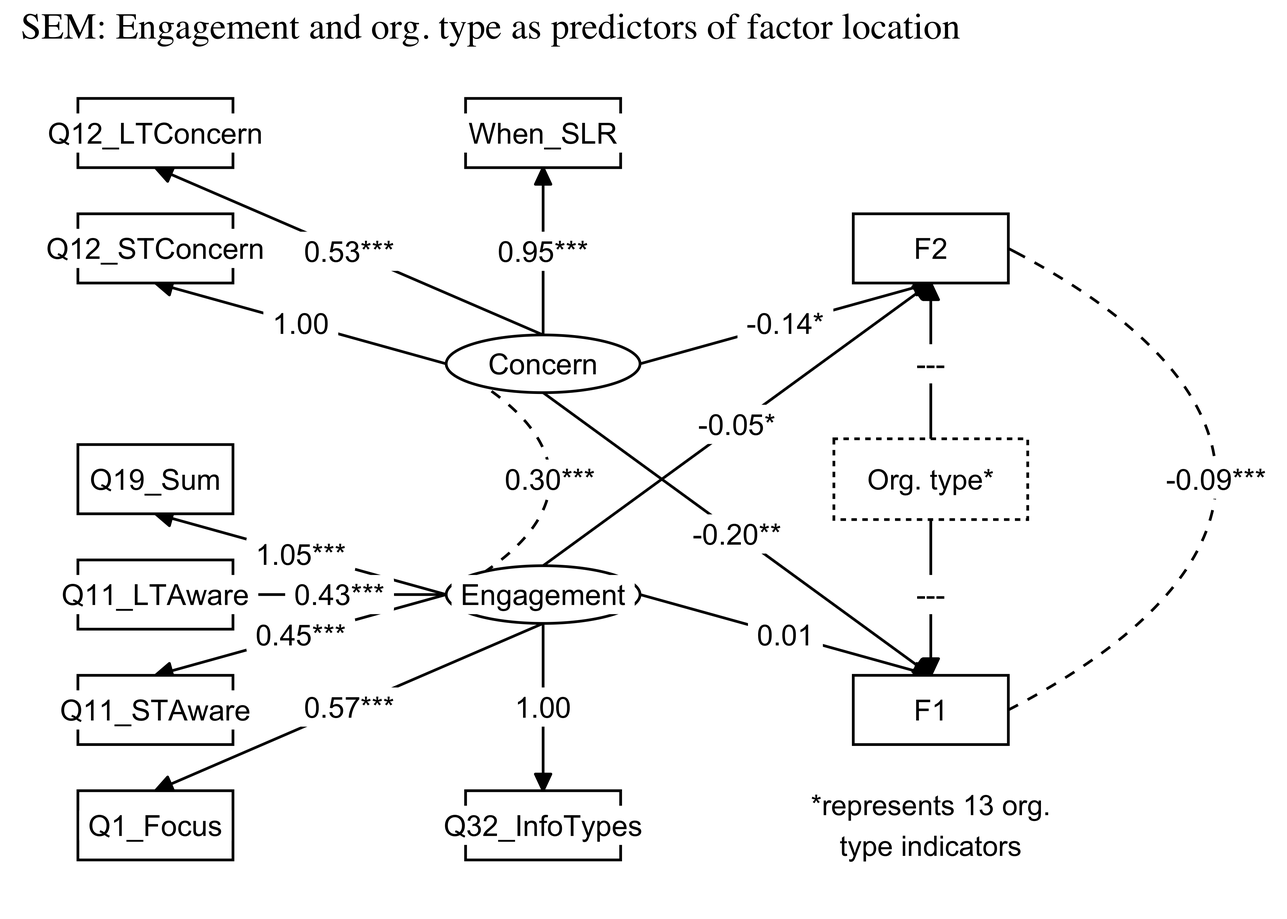
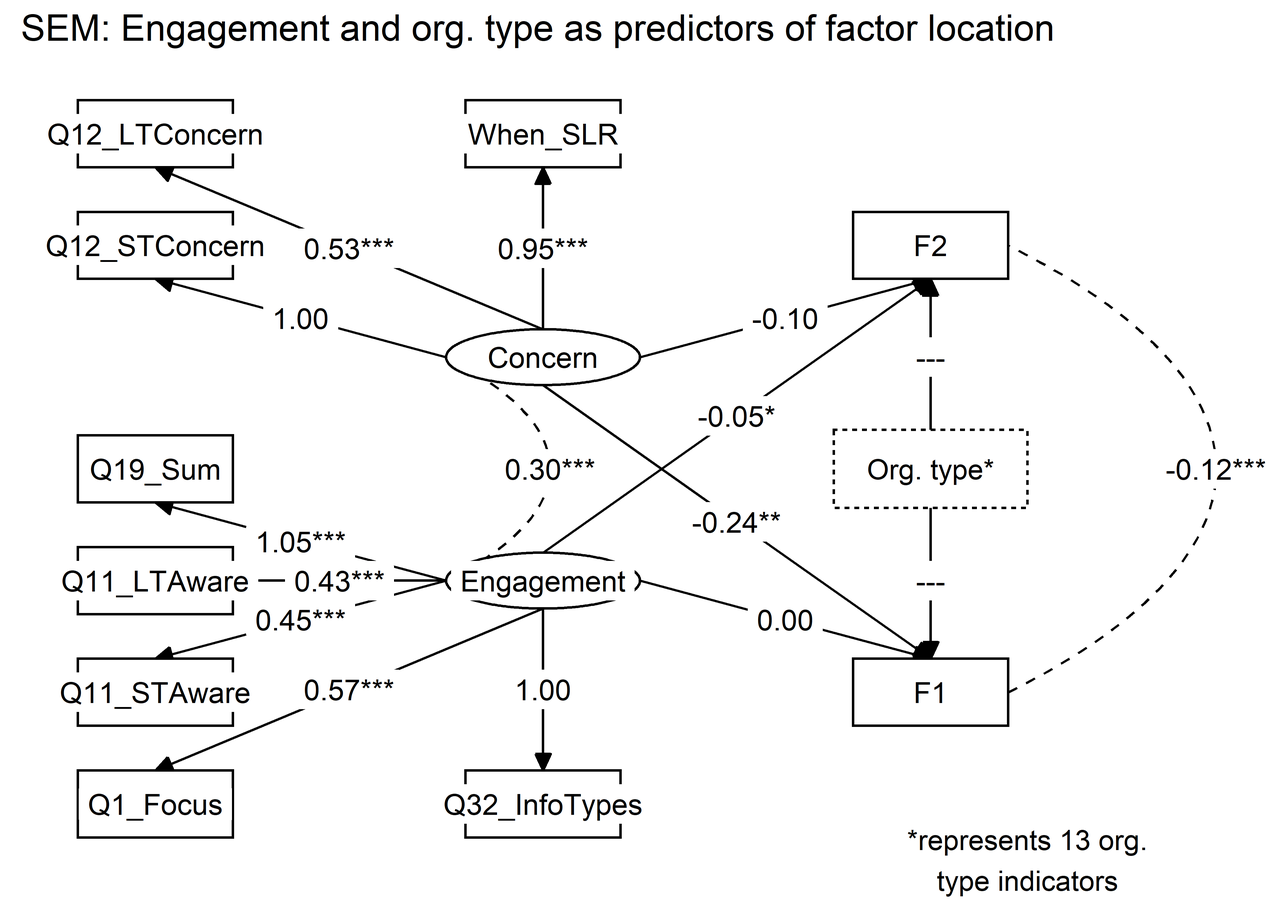
Edit Figures 1, 4, and 5 for paper (all new figure code done at end of script)

diff --git a/output/tables/correlation_tests.html b/output/tables/correlation_tests.html
@@ -1,40 +1,40 @@
 
 <table style="text-align:center"><tr><td colspan="4" style="border-bottom: 1px solid black"></td></tr><tr><td style="text-align:left"></td><td>item</td><td>F1</td><td>F2</td></tr>
-<tr><td colspan="4" style="border-bottom: 1px solid black"></td></tr><tr><td style="text-align:left">1</td><td>Q1_Focus</td><td>-0.048</td><td>-0.027</td></tr>
-<tr><td style="text-align:left">2</td><td>Q16_Risk_Agree</td><td>-0.029</td><td>-0.039</td></tr>
-<tr><td style="text-align:left">3</td><td>Q17_Action_Agree</td><td>0.038</td><td>-0.018</td></tr>
-<tr><td style="text-align:left">4</td><td>Q4_Fed</td><td>0.037</td><td>-0.1*</td></tr>
-<tr><td style="text-align:left">5</td><td>Q4_State</td><td>-0.024</td><td>0.031</td></tr>
-<tr><td style="text-align:left">6</td><td>Q4_RegGov</td><td>0.03</td><td>0.059</td></tr>
-<tr><td style="text-align:left">7</td><td>Q4_LocalGov</td><td>0.076*</td><td>0.067*</td></tr>
-<tr><td style="text-align:left">8</td><td>Q4_WaterSD</td><td>0.102*</td><td>-0.014</td></tr>
+<tr><td colspan="4" style="border-bottom: 1px solid black"></td></tr><tr><td style="text-align:left">1</td><td>Q1_Focus</td><td>-0.047</td><td>-0.034</td></tr>
+<tr><td style="text-align:left">2</td><td>Q16_Risk_Agree</td><td>-0.028</td><td>-0.029</td></tr>
+<tr><td style="text-align:left">3</td><td>Q17_Action_Agree</td><td>0.021</td><td>-0.008</td></tr>
+<tr><td style="text-align:left">4</td><td>Q4_Fed</td><td>0000</td><td>-0.095*</td></tr>
+<tr><td style="text-align:left">5</td><td>Q4_State</td><td>-0.026</td><td>0.039</td></tr>
+<tr><td style="text-align:left">6</td><td>Q4_RegGov</td><td>0.047</td><td>0.054</td></tr>
+<tr><td style="text-align:left">7</td><td>Q4_LocalGov</td><td>0.085*</td><td>0.051</td></tr>
+<tr><td style="text-align:left">8</td><td>Q4_WaterSD</td><td>0.056</td><td>-0.01</td></tr>
 <tr><td style="text-align:left">9</td><td>Q4_EnviroSD</td><td>0.029</td><td>-0.063*</td></tr>
-<tr><td style="text-align:left">10</td><td>Q4_Enviro</td><td>-0.004</td><td>-0.028</td></tr>
-<tr><td style="text-align:left">11</td><td>Q4_Trade</td><td>-0.013</td><td>0.007</td></tr>
-<tr><td style="text-align:left">12</td><td>Q4_Ed</td><td>-0.058</td><td>0.018</td></tr>
-<tr><td style="text-align:left">13</td><td>Q4_Multistake</td><td>-0.027</td><td>0.008</td></tr>
-<tr><td style="text-align:left">14</td><td>Q4_Multijuris</td><td>0.011</td><td>0.001</td></tr>
-<tr><td style="text-align:left">15</td><td>Q4_Political</td><td>-0.028</td><td>0.04</td></tr>
-<tr><td style="text-align:left">16</td><td>Q4_CBO</td><td>-0.074*</td><td>-0.001</td></tr>
-<tr><td style="text-align:left">17</td><td>Q4_NGO</td><td>-0.127*</td><td>-0.086*</td></tr>
-<tr><td style="text-align:left">18</td><td>Q8_JobTasks</td><td>-0.078*</td><td>0.013</td></tr>
-<tr><td style="text-align:left">19</td><td>Q32_InfoTypes</td><td>-0.026</td><td>-0.072*</td></tr>
-<tr><td style="text-align:left">20</td><td>Q11_STAware</td><td>-0.001</td><td>-0.061*</td></tr>
-<tr><td style="text-align:left">21</td><td>Q11_LTAware</td><td>-0.043</td><td>-0.039</td></tr>
-<tr><td style="text-align:left">22</td><td>Q12_STConcern</td><td>-0.106*</td><td>-0.071*</td></tr>
-<tr><td style="text-align:left">23</td><td>Q12_LTConcern</td><td>-0.11*</td><td>-0.014</td></tr>
-<tr><td style="text-align:left">24</td><td>Q20_HumRes</td><td>-0.046</td><td>0.031</td></tr>
-<tr><td style="text-align:left">25</td><td>Q20_FinRes</td><td>-0.028</td><td>0.002</td></tr>
-<tr><td style="text-align:left">26</td><td>Q20_ExpCollab</td><td>0.007</td><td>0.004</td></tr>
-<tr><td style="text-align:left">27</td><td>Q20_StakeOpp</td><td>0.056</td><td>-0.077*</td></tr>
-<tr><td style="text-align:left">28</td><td>Q20_PolLead</td><td>-0.02</td><td>-0.04</td></tr>
-<tr><td style="text-align:left">29</td><td>Q20_SLRUncertain</td><td>0.067*</td><td>0.051</td></tr>
-<tr><td style="text-align:left">30</td><td>Q20_SciInfo</td><td>0.055</td><td>0.007</td></tr>
-<tr><td style="text-align:left">31</td><td>Q20_OrgLead</td><td>-0.05</td><td>-0.013</td></tr>
-<tr><td style="text-align:left">32</td><td>Q20_OverallPlan</td><td>0.042</td><td>0.067*</td></tr>
-<tr><td style="text-align:left">33</td><td>Q20_Permits</td><td>0.119*</td><td>-0.089*</td></tr>
-<tr><td style="text-align:left">34</td><td>Q20_PubSupport</td><td>0.018</td><td>-0.011</td></tr>
-<tr><td style="text-align:left">35</td><td>Q20_CBORelation</td><td>-0.124*</td><td>0.037</td></tr>
-<tr><td style="text-align:left">36</td><td>Q20_Sum</td><td>0.029</td><td>0.01</td></tr>
-<tr><td style="text-align:left">37</td><td>Q19_Sum</td><td>-0.078*</td><td>-0.056*</td></tr>
+<tr><td style="text-align:left">10</td><td>Q4_Enviro</td><td>-0.017</td><td>-0.03</td></tr>
+<tr><td style="text-align:left">11</td><td>Q4_Trade</td><td>0.003</td><td>0.002</td></tr>
+<tr><td style="text-align:left">12</td><td>Q4_Ed</td><td>-0.03</td><td>0.009</td></tr>
+<tr><td style="text-align:left">13</td><td>Q4_Multistake</td><td>-0.009</td><td>0.005</td></tr>
+<tr><td style="text-align:left">14</td><td>Q4_Multijuris</td><td>0.027</td><td>-0.004</td></tr>
+<tr><td style="text-align:left">15</td><td>Q4_Political</td><td>-0.012</td><td>0.043</td></tr>
+<tr><td style="text-align:left">16</td><td>Q4_CBO</td><td>-0.079*</td><td>0.003</td></tr>
+<tr><td style="text-align:left">17</td><td>Q4_NGO</td><td>-0.128*</td><td>-0.075*</td></tr>
+<tr><td style="text-align:left">18</td><td>Q8_JobTasks</td><td>-0.069*</td><td>0.013</td></tr>
+<tr><td style="text-align:left">19</td><td>Q32_InfoTypes</td><td>-0.033</td><td>-0.069*</td></tr>
+<tr><td style="text-align:left">20</td><td>Q11_STAware</td><td>-0.006</td><td>-0.062*</td></tr>
+<tr><td style="text-align:left">21</td><td>Q11_LTAware</td><td>-0.043</td><td>-0.044</td></tr>
+<tr><td style="text-align:left">22</td><td>Q12_STConcern</td><td>-0.108*</td><td>-0.059*</td></tr>
+<tr><td style="text-align:left">23</td><td>Q12_LTConcern</td><td>-0.101*</td><td>-0.008</td></tr>
+<tr><td style="text-align:left">24</td><td>Q20_HumRes</td><td>-0.041</td><td>0.03</td></tr>
+<tr><td style="text-align:left">25</td><td>Q20_FinRes</td><td>-0.01</td><td>-0.007</td></tr>
+<tr><td style="text-align:left">26</td><td>Q20_ExpCollab</td><td>0.003</td><td>0.011</td></tr>
+<tr><td style="text-align:left">27</td><td>Q20_StakeOpp</td><td>0.018</td><td>-0.067*</td></tr>
+<tr><td style="text-align:left">28</td><td>Q20_PolLead</td><td>-0.021</td><td>-0.03</td></tr>
+<tr><td style="text-align:left">29</td><td>Q20_SLRUncertain</td><td>0.075*</td><td>0.042</td></tr>
+<tr><td style="text-align:left">30</td><td>Q20_SciInfo</td><td>0.061*</td><td>-0.017</td></tr>
+<tr><td style="text-align:left">31</td><td>Q20_OrgLead</td><td>-0.037</td><td>-0.021</td></tr>
+<tr><td style="text-align:left">32</td><td>Q20_OverallPlan</td><td>0.056</td><td>0.059</td></tr>
+<tr><td style="text-align:left">33</td><td>Q20_Permits</td><td>0.08*</td><td>-0.095*</td></tr>
+<tr><td style="text-align:left">34</td><td>Q20_PubSupport</td><td>-0.006</td><td>0.013</td></tr>
+<tr><td style="text-align:left">35</td><td>Q20_CBORelation</td><td>-0.121*</td><td>0.039</td></tr>
+<tr><td style="text-align:left">36</td><td>Q20_Sum</td><td>0.027</td><td>0.008</td></tr>
+<tr><td style="text-align:left">37</td><td>Q19_Sum</td><td>-0.085*</td><td>-0.048</td></tr>
 <tr><td colspan="4" style="border-bottom: 1px solid black"></td></tr></table>

diff --git a/output/tables/sem_model_V2_10-7.html b/output/tables/sem_model_V2_10-7.html
@@ -3,40 +3,40 @@
 <tr><td></td><td colspan = '1'; align = 'center'>Estimate</td><td colspan = '1'; align = 'center'>Std. Err.</td><td colspan = '1'; align = 'center'>z</td><td colspan = '1'; align = 'center'>p</td></tr>
 <tr><td></td><td colspan = '4'; align = 'center'><span style="text-decoration: underline;">Factor Loadings</span></td></tr> <tr><td colspan = '1'; align = 'left'><span style="text-decoration: underline;">Engagement</span></td></tr>
 <tr><td>Q32.InfoTypes</td><td>1.00<sup>+</sup></td><td></td><td></td><td></td></tr>
-<tr><td>Q1.Focus</td><td>0.57</td><td>0.06</td><td>9.16</td><td>.000</td></tr>
-<tr><td>When.SLR</td><td>0.17</td><td>0.04</td><td>4.66</td><td>.000</td></tr>
-<tr><td>Q11.STAware</td><td>0.52</td><td>0.05</td><td>11.02</td><td>.000</td></tr>
-<tr><td>Q11.LTAware</td><td>0.49</td><td>0.04</td><td>11.00</td><td>.000</td></tr>
-<tr><td>Q12.LTConcern</td><td>0.14</td><td>0.02</td><td>6.56</td><td>.000</td></tr>
-<tr><td>Q12.STConcern</td><td>0.13</td><td>0.03</td><td>4.53</td><td>.000</td></tr>
+<tr><td>Q1.Focus</td><td>0.57</td><td>0.06</td><td>9.15</td><td>.000</td></tr>
+<tr><td>When.SLR</td><td>0.17</td><td>0.04</td><td>4.64</td><td>.000</td></tr>
+<tr><td>Q11.STAware</td><td>0.52</td><td>0.05</td><td>11.00</td><td>.000</td></tr>
+<tr><td>Q11.LTAware</td><td>0.49</td><td>0.04</td><td>10.99</td><td>.000</td></tr>
+<tr><td>Q12.LTConcern</td><td>0.14</td><td>0.02</td><td>6.55</td><td>.000</td></tr>
+<tr><td>Q12.STConcern</td><td>0.13</td><td>0.03</td><td>4.51</td><td>.000</td></tr>
 <tr><td></td><td colspan = '4'; align = 'center'><span style="text-decoration: underline;">Regression Slopes</span></td></tr> <tr><td colspan = '1'; align = 'left'><span style="text-decoration: underline;">F1</span></td></tr>
-<tr><td>Engagement</td><td>-0.02</td><td>0.02</td><td>-1.11</td><td>.265</td></tr>
-<tr><td>nonprofit</td><td>-0.50</td><td>0.09</td><td>-5.70</td><td>.000</td></tr>
-<tr><td>govagency</td><td>-0.15</td><td>0.09</td><td>-1.75</td><td>.081</td></tr>
-<tr><td>enviro</td><td>-0.19</td><td>0.13</td><td>-1.49</td><td>.137</td></tr>
-<tr><td>othergroup</td><td>-0.16</td><td>0.07</td><td>-2.32</td><td>.020</td></tr>
+<tr><td>Engagement</td><td>-0.03</td><td>0.03</td><td>-1.01</td><td>.314</td></tr>
+<tr><td>nonprofit</td><td>-0.55</td><td>0.12</td><td>-4.63</td><td>.000</td></tr>
+<tr><td>govagency</td><td>-0.16</td><td>0.11</td><td>-1.37</td><td>.172</td></tr>
+<tr><td>enviro</td><td>-0.22</td><td>0.17</td><td>-1.30</td><td>.194</td></tr>
+<tr><td>othergroup</td><td>-0.13</td><td>0.09</td><td>-1.44</td><td>.151</td></tr>
  <tr><td colspan = '1'; align = 'left'><span style="text-decoration: underline;">F2</span></td></tr>
-<tr><td>Engagement</td><td>-0.07</td><td>0.02</td><td>-3.23</td><td>.001</td></tr>
-<tr><td>nonprofit</td><td>-0.26</td><td>0.09</td><td>-3.03</td><td>.002</td></tr>
-<tr><td>govagency</td><td>-0.08</td><td>0.08</td><td>-1.02</td><td>.310</td></tr>
-<tr><td>enviro</td><td>-0.18</td><td>0.12</td><td>-1.46</td><td>.145</td></tr>
-<tr><td>othergroup</td><td>-0.03</td><td>0.07</td><td>-0.41</td><td>.680</td></tr>
+<tr><td>Engagement</td><td>-0.07</td><td>0.02</td><td>-3.21</td><td>.001</td></tr>
+<tr><td>nonprofit</td><td>-0.23</td><td>0.09</td><td>-2.60</td><td>.009</td></tr>
+<tr><td>govagency</td><td>-0.05</td><td>0.09</td><td>-0.64</td><td>.525</td></tr>
+<tr><td>enviro</td><td>-0.16</td><td>0.13</td><td>-1.24</td><td>.217</td></tr>
+<tr><td>othergroup</td><td>-0.01</td><td>0.07</td><td>-0.09</td><td>.932</td></tr>
 <tr><td></td><td colspan = '4'; align = 'center'><span style="text-decoration: underline;">Residual Variances</span></td></tr>
-<tr><td>Q32.InfoTypes</td><td>7.06</td><td>0.39</td><td>17.89</td><td>.000</td></tr>
-<tr><td>Q1.Focus</td><td>1.56</td><td>0.09</td><td>17.49</td><td>.000</td></tr>
-<tr><td>When.SLR</td><td>1.17</td><td>0.06</td><td>18.54</td><td>.000</td></tr>
-<tr><td>Q11.STAware</td><td>0.14</td><td>0.02</td><td>7.03</td><td>.000</td></tr>
-<tr><td>Q11.LTAware</td><td>0.22</td><td>0.02</td><td>10.62</td><td>.000</td></tr>
-<tr><td>Q12.LTConcern</td><td>0.31</td><td>0.02</td><td>18.34</td><td>.000</td></tr>
+<tr><td>Q32.InfoTypes</td><td>7.06</td><td>0.39</td><td>17.90</td><td>.000</td></tr>
+<tr><td>Q1.Focus</td><td>1.56</td><td>0.09</td><td>17.50</td><td>.000</td></tr>
+<tr><td>When.SLR</td><td>1.18</td><td>0.06</td><td>18.54</td><td>.000</td></tr>
+<tr><td>Q11.STAware</td><td>0.14</td><td>0.02</td><td>6.98</td><td>.000</td></tr>
+<tr><td>Q11.LTAware</td><td>0.22</td><td>0.02</td><td>10.61</td><td>.000</td></tr>
+<tr><td>Q12.LTConcern</td><td>0.31</td><td>0.02</td><td>18.35</td><td>.000</td></tr>
 <tr><td>Q12.STConcern</td><td>0.67</td><td>0.04</td><td>18.55</td><td>.000</td></tr>
-<tr><td>F1</td><td>0.49</td><td>0.03</td><td>18.67</td><td>.000</td></tr>
-<tr><td>F2</td><td>0.46</td><td>0.02</td><td>18.62</td><td>.000</td></tr>
+<tr><td>F1</td><td>0.89</td><td>0.05</td><td>18.68</td><td>.000</td></tr>
+<tr><td>F2</td><td>0.50</td><td>0.03</td><td>18.62</td><td>.000</td></tr>
 <tr><td>nonprofit</td><td>0.12<sup>+</sup></td><td></td><td></td><td></td></tr>
 <tr><td>govagency</td><td>0.14<sup>+</sup></td><td></td><td></td><td></td></tr>
 <tr><td>enviro</td><td>0.05<sup>+</sup></td><td></td><td></td><td></td></tr>
 <tr><td>othergroup</td><td>0.24<sup>+</sup></td><td></td><td></td><td></td></tr>
 <tr><td></td><td colspan = '4'; align = 'center'><span style="text-decoration: underline;">Residual Covariances</span></td></tr>
-<tr><td>F1 w/F2</td><td>-0.08</td><td>0.02</td><td>-4.58</td><td>.000</td></tr>
+<tr><td>F1 w/F2</td><td>-0.11</td><td>0.03</td><td>-4.29</td><td>.000</td></tr>
 <tr><td>nonprofit w/govagency</td><td>-0.02<sup>+</sup></td><td></td><td></td><td></td></tr>
 <tr><td>nonprofit w/enviro</td><td>-0.01<sup>+</sup></td><td></td><td></td><td></td></tr>
 <tr><td>nonprofit w/othergroup</td><td>-0.06<sup>+</sup></td><td></td><td></td><td></td></tr>
@@ -44,11 +44,11 @@
 <tr><td>govagency w/othergroup</td><td>-0.07<sup>+</sup></td><td></td><td></td><td></td></tr>
 <tr><td>enviro w/othergroup</td><td>-0.02<sup>+</sup></td><td></td><td></td><td></td></tr>
 <tr><td></td><td colspan = '4'; align = 'center'><span style="text-decoration: underline;">Latent Variances</span></td></tr>
-<tr><td>Engagement</td><td>1.69</td><td>0.30</td><td>5.65</td><td>.000</td></tr>
+<tr><td>Engagement</td><td>1.68</td><td>0.30</td><td>5.64</td><td>.000</td></tr>
 <tr><td></td><td colspan = '4'; align = 'center'><span style="text-decoration: underline;">Fit Indices</span></td></tr>
-<tr><td>&chi;<sup>2</sup></td><td>415.39(54)</td><td></td><td></td><td>.000</td></tr>
-<tr><td>CFI</td><td>0.72</td><td></td><td></td><td></td></tr>
-<tr><td>TLI</td><td>0.63</td><td></td><td></td><td></td></tr>
+<tr><td>&chi;<sup>2</sup></td><td>401.43(54)</td><td></td><td></td><td>.000</td></tr>
+<tr><td>CFI</td><td>0.73</td><td></td><td></td><td></td></tr>
+<tr><td>TLI</td><td>0.64</td><td></td><td></td><td></td></tr>
 <tr><td>RMSEA</td><td>0.10</td><td></td><td></td><td></td></tr>
 <tr><td colspan = '5'; align = 'left'><sup>+</sup>Fixed parameter</td></tr>
 </table><br>

diff --git a/output/tables/sem_model_V1_10-7.html b/output/tables/sem_model_V1_10-7.html
@@ -3,46 +3,46 @@
 <tr><td></td><td colspan = '1'; align = 'center'>Estimate</td><td colspan = '1'; align = 'center'>Std. Err.</td><td colspan = '1'; align = 'center'>z</td><td colspan = '1'; align = 'center'>p</td></tr>
 <tr><td></td><td colspan = '4'; align = 'center'><span style="text-decoration: underline;">Factor Loadings</span></td></tr> <tr><td colspan = '1'; align = 'left'><span style="text-decoration: underline;">Engagement</span></td></tr>
 <tr><td>Q32.InfoTypes</td><td>1.00<sup>+</sup></td><td></td><td></td><td></td></tr>
-<tr><td>Q1.Focus</td><td>0.57</td><td>0.06</td><td>9.16</td><td>.000</td></tr>
-<tr><td>When.SLR</td><td>0.17</td><td>0.04</td><td>4.67</td><td>.000</td></tr>
-<tr><td>Q11.STAware</td><td>0.52</td><td>0.05</td><td>11.02</td><td>.000</td></tr>
-<tr><td>Q11.LTAware</td><td>0.49</td><td>0.04</td><td>11.00</td><td>.000</td></tr>
-<tr><td>Q12.LTConcern</td><td>0.14</td><td>0.02</td><td>6.57</td><td>.000</td></tr>
-<tr><td>Q12.STConcern</td><td>0.13</td><td>0.03</td><td>4.53</td><td>.000</td></tr>
+<tr><td>Q1.Focus</td><td>0.57</td><td>0.06</td><td>9.15</td><td>.000</td></tr>
+<tr><td>When.SLR</td><td>0.17</td><td>0.04</td><td>4.65</td><td>.000</td></tr>
+<tr><td>Q11.STAware</td><td>0.52</td><td>0.05</td><td>11.00</td><td>.000</td></tr>
+<tr><td>Q11.LTAware</td><td>0.49</td><td>0.04</td><td>10.99</td><td>.000</td></tr>
+<tr><td>Q12.LTConcern</td><td>0.14</td><td>0.02</td><td>6.55</td><td>.000</td></tr>
+<tr><td>Q12.STConcern</td><td>0.13</td><td>0.03</td><td>4.51</td><td>.000</td></tr>
 <tr><td></td><td colspan = '4'; align = 'center'><span style="text-decoration: underline;">Regression Slopes</span></td></tr> <tr><td colspan = '1'; align = 'left'><span style="text-decoration: underline;">F1</span></td></tr>
-<tr><td>Engagement</td><td>-0.02</td><td>0.02</td><td>-1.12</td><td>.263</td></tr>
-<tr><td>nonprofit</td><td>-0.50</td><td>0.09</td><td>-5.70</td><td>.000</td></tr>
-<tr><td>govagency</td><td>-0.15</td><td>0.09</td><td>-1.75</td><td>.081</td></tr>
-<tr><td>othergroup.wEnviro</td><td>-0.16</td><td>0.07</td><td>-2.43</td><td>.015</td></tr>
+<tr><td>Engagement</td><td>-0.03</td><td>0.03</td><td>-1.02</td><td>.310</td></tr>
+<tr><td>nonprofit</td><td>-0.55</td><td>0.12</td><td>-4.62</td><td>.000</td></tr>
+<tr><td>govagency</td><td>-0.16</td><td>0.11</td><td>-1.36</td><td>.172</td></tr>
+<tr><td>othergroup.wEnviro</td><td>-0.14</td><td>0.09</td><td>-1.58</td><td>.113</td></tr>
  <tr><td colspan = '1'; align = 'left'><span style="text-decoration: underline;">F2</span></td></tr>
-<tr><td>Engagement</td><td>-0.07</td><td>0.02</td><td>-3.25</td><td>.001</td></tr>
-<tr><td>nonprofit</td><td>-0.26</td><td>0.09</td><td>-3.03</td><td>.002</td></tr>
-<tr><td>govagency</td><td>-0.08</td><td>0.08</td><td>-1.01</td><td>.312</td></tr>
-<tr><td>othergroup.wEnviro</td><td>-0.05</td><td>0.07</td><td>-0.69</td><td>.490</td></tr>
+<tr><td>Engagement</td><td>-0.07</td><td>0.02</td><td>-3.23</td><td>.001</td></tr>
+<tr><td>nonprofit</td><td>-0.23</td><td>0.09</td><td>-2.60</td><td>.009</td></tr>
+<tr><td>govagency</td><td>-0.05</td><td>0.09</td><td>-0.63</td><td>.528</td></tr>
+<tr><td>othergroup.wEnviro</td><td>-0.02</td><td>0.07</td><td>-0.35</td><td>.729</td></tr>
 <tr><td></td><td colspan = '4'; align = 'center'><span style="text-decoration: underline;">Residual Variances</span></td></tr>
-<tr><td>Q32.InfoTypes</td><td>7.06</td><td>0.39</td><td>17.89</td><td>.000</td></tr>
-<tr><td>Q1.Focus</td><td>1.56</td><td>0.09</td><td>17.49</td><td>.000</td></tr>
-<tr><td>When.SLR</td><td>1.17</td><td>0.06</td><td>18.54</td><td>.000</td></tr>
-<tr><td>Q11.STAware</td><td>0.14</td><td>0.02</td><td>7.03</td><td>.000</td></tr>
-<tr><td>Q11.LTAware</td><td>0.22</td><td>0.02</td><td>10.62</td><td>.000</td></tr>
-<tr><td>Q12.LTConcern</td><td>0.31</td><td>0.02</td><td>18.34</td><td>.000</td></tr>
+<tr><td>Q32.InfoTypes</td><td>7.06</td><td>0.39</td><td>17.90</td><td>.000</td></tr>
+<tr><td>Q1.Focus</td><td>1.56</td><td>0.09</td><td>17.50</td><td>.000</td></tr>
+<tr><td>When.SLR</td><td>1.18</td><td>0.06</td><td>18.54</td><td>.000</td></tr>
+<tr><td>Q11.STAware</td><td>0.14</td><td>0.02</td><td>6.98</td><td>.000</td></tr>
+<tr><td>Q11.LTAware</td><td>0.22</td><td>0.02</td><td>10.61</td><td>.000</td></tr>
+<tr><td>Q12.LTConcern</td><td>0.31</td><td>0.02</td><td>18.35</td><td>.000</td></tr>
 <tr><td>Q12.STConcern</td><td>0.67</td><td>0.04</td><td>18.55</td><td>.000</td></tr>
-<tr><td>F1</td><td>0.49</td><td>0.03</td><td>18.67</td><td>.000</td></tr>
-<tr><td>F2</td><td>0.46</td><td>0.02</td><td>18.62</td><td>.000</td></tr>
+<tr><td>F1</td><td>0.89</td><td>0.05</td><td>18.68</td><td>.000</td></tr>
+<tr><td>F2</td><td>0.50</td><td>0.03</td><td>18.62</td><td>.000</td></tr>
 <tr><td>nonprofit</td><td>0.12<sup>+</sup></td><td></td><td></td><td></td></tr>
 <tr><td>govagency</td><td>0.14<sup>+</sup></td><td></td><td></td><td></td></tr>
 <tr><td>othergroup.wEnviro</td><td>0.25<sup>+</sup></td><td></td><td></td><td></td></tr>
 <tr><td></td><td colspan = '4'; align = 'center'><span style="text-decoration: underline;">Residual Covariances</span></td></tr>
-<tr><td>F1 w/F2</td><td>-0.08</td><td>0.02</td><td>-4.57</td><td>.000</td></tr>
+<tr><td>F1 w/F2</td><td>-0.11</td><td>0.03</td><td>-4.26</td><td>.000</td></tr>
 <tr><td>nonprofit w/govagency</td><td>-0.02<sup>+</sup></td><td></td><td></td><td></td></tr>
 <tr><td>nonprofit w/othergroup.wEnviro</td><td>-0.07<sup>+</sup></td><td></td><td></td><td></td></tr>
 <tr><td>govagency w/othergroup.wEnviro</td><td>-0.07<sup>+</sup></td><td></td><td></td><td></td></tr>
 <tr><td></td><td colspan = '4'; align = 'center'><span style="text-decoration: underline;">Latent Variances</span></td></tr>
-<tr><td>Engagement</td><td>1.69</td><td>0.30</td><td>5.65</td><td>.000</td></tr>
+<tr><td>Engagement</td><td>1.68</td><td>0.30</td><td>5.64</td><td>.000</td></tr>
 <tr><td></td><td colspan = '4'; align = 'center'><span style="text-decoration: underline;">Fit Indices</span></td></tr>
-<tr><td>&chi;<sup>2</sup></td><td>391.08(47)</td><td></td><td></td><td>.000</td></tr>
-<tr><td>CFI</td><td>0.73</td><td></td><td></td><td></td></tr>
-<tr><td>TLI</td><td>0.64</td><td></td><td></td><td></td></tr>
+<tr><td>&chi;<sup>2</sup></td><td>377.14(47)</td><td></td><td></td><td>.000</td></tr>
+<tr><td>CFI</td><td>0.74</td><td></td><td></td><td></td></tr>
+<tr><td>TLI</td><td>0.65</td><td></td><td></td><td></td></tr>
 <tr><td>RMSEA</td><td>0.10</td><td></td><td></td><td></td></tr>
 <tr><td colspan = '5'; align = 'left'><sup>+</sup>Fixed parameter</td></tr>
 </table><br>

diff --git a/output/tables/sem_model_11-4.html b/output/tables/sem_model_11-4.html
@@ -18,13 +18,13 @@
 <tr><td>Q4.Fed</td><td>-0.08</td><td>0.19</td><td>-0.43</td><td>.670</td></tr>
 <tr><td>Q4.State</td><td>-0.21</td><td>0.14</td><td>-1.50</td><td>.134</td></tr>
 <tr><td>Q4.RegGov</td><td>0.08</td><td>0.21</td><td>0.37</td><td>.712</td></tr>
-<tr><td>Q4.EnviroSD</td><td>0.20</td><td>0.31</td><td>0.66</td><td>.507</td></tr>
-<tr><td>Q4.WaterSD</td><td>0.01</td><td>0.26</td><td>0.05</td><td>.962</td></tr>
+<tr><td>Q4.EnviroSD</td><td>0.20</td><td>0.31</td><td>0.67</td><td>.506</td></tr>
+<tr><td>Q4.WaterSD</td><td>0.01</td><td>0.26</td><td>0.05</td><td>.963</td></tr>
 <tr><td>Q4.Ed</td><td>-0.21</td><td>0.13</td><td>-1.64</td><td>.101</td></tr>
 <tr><td>Q4.Multijuris</td><td>0.59</td><td>0.94</td><td>0.63</td><td>.528</td></tr>
-<tr><td>Q4.Multistake</td><td>-0.09</td><td>0.39</td><td>-0.23</td><td>.821</td></tr>
+<tr><td>Q4.Multistake</td><td>-0.09</td><td>0.39</td><td>-0.23</td><td>.822</td></tr>
 <tr><td>Q4.Political</td><td>-0.48</td><td>0.94</td><td>-0.51</td><td>.607</td></tr>
-<tr><td>Q4.Trade</td><td>-0.05</td><td>0.19</td><td>-0.28</td><td>.783</td></tr>
+<tr><td>Q4.Trade</td><td>-0.05</td><td>0.19</td><td>-0.27</td><td>.783</td></tr>
 <tr><td>Q4.Enviro</td><td>-0.11</td><td>0.17</td><td>-0.64</td><td>.524</td></tr>
 <tr><td>OtherActorType</td><td>-0.06</td><td>0.11</td><td>-0.53</td><td>.593</td></tr>
  <tr><td colspan = '1'; align = 'left'><span style="text-decoration: underline;">F2</span></td></tr>
@@ -32,7 +32,7 @@
 <tr><td>Concern</td><td>-0.10</td><td>0.06</td><td>-1.65</td><td>.099</td></tr>
 <tr><td>nonprofit</td><td>-0.26</td><td>0.09</td><td>-2.89</td><td>.004</td></tr>
 <tr><td>Q4.Fed</td><td>-0.56</td><td>0.14</td><td>-3.95</td><td>.000</td></tr>
-<tr><td>Q4.State</td><td>0.05</td><td>0.11</td><td>0.49</td><td>.621</td></tr>
+<tr><td>Q4.State</td><td>0.05</td><td>0.11</td><td>0.49</td><td>.622</td></tr>
 <tr><td>Q4.RegGov</td><td>0.10</td><td>0.15</td><td>0.67</td><td>.505</td></tr>
 <tr><td>Q4.EnviroSD</td><td>-0.55</td><td>0.23</td><td>-2.41</td><td>.016</td></tr>
 <tr><td>Q4.WaterSD</td><td>-0.20</td><td>0.19</td><td>-1.01</td><td>.314</td></tr>
@@ -41,8 +41,8 @@
 <tr><td>Q4.Multistake</td><td>-0.05</td><td>0.29</td><td>-0.16</td><td>.873</td></tr>
 <tr><td>Q4.Political</td><td>0.53</td><td>0.69</td><td>0.76</td><td>.449</td></tr>
 <tr><td>Q4.Trade</td><td>-0.07</td><td>0.14</td><td>-0.51</td><td>.607</td></tr>
-<tr><td>Q4.Enviro</td><td>-0.17</td><td>0.13</td><td>-1.34</td><td>.180</td></tr>
-<tr><td>OtherActorType</td><td>-0.03</td><td>0.08</td><td>-0.42</td><td>.673</td></tr>
+<tr><td>Q4.Enviro</td><td>-0.17</td><td>0.13</td><td>-1.34</td><td>.179</td></tr>
+<tr><td>OtherActorType</td><td>-0.03</td><td>0.08</td><td>-0.42</td><td>.672</td></tr>
 <tr><td></td><td colspan = '4'; align = 'center'><span style="text-decoration: underline;">Residual Variances</span></td></tr>
 <tr><td>Q32.InfoTypes</td><td>6.65</td><td>0.38</td><td>17.58</td><td>.000</td></tr>
 <tr><td>Q1.Focus</td><td>1.45</td><td>0.08</td><td>17.04</td><td>.000</td></tr>
@@ -68,7 +68,7 @@
 <tr><td>Q4.Enviro</td><td>0.05<sup>+</sup></td><td></td><td></td><td></td></tr>
 <tr><td>OtherActorType</td><td>0.17<sup>+</sup></td><td></td><td></td><td></td></tr>
 <tr><td></td><td colspan = '4'; align = 'center'><span style="text-decoration: underline;">Residual Covariances</span></td></tr>
-<tr><td>F1 w/F2</td><td>-0.12</td><td>0.02</td><td>-4.67</td><td>.000</td></tr>
+<tr><td>F1 w/F2</td><td>-0.12</td><td>0.02</td><td>-4.68</td><td>.000</td></tr>
 <tr><td>nonprofit w/Q4.Fed</td><td>-0.01<sup>+</sup></td><td></td><td></td><td></td></tr>
 <tr><td>nonprofit w/Q4.State</td><td>-0.01<sup>+</sup></td><td></td><td></td><td></td></tr>
 <tr><td>nonprofit w/Q4.RegGov</td><td>-0.01<sup>+</sup></td><td></td><td></td><td></td></tr>
@@ -153,7 +153,7 @@
 <tr><td></td><td colspan = '4'; align = 'center'><span style="text-decoration: underline;">Latent Covariances</span></td></tr>
 <tr><td>Engagement w/Concern</td><td>0.30</td><td>0.05</td><td>5.67</td><td>.000</td></tr>
 <tr><td></td><td colspan = '4'; align = 'center'><span style="text-decoration: underline;">Fit Indices</span></td></tr>
-<tr><td>&chi;<sup>2</sup></td><td>480.70(135)</td><td></td><td></td><td>.000</td></tr>
+<tr><td>&chi;<sup>2</sup></td><td>480.69(135)</td><td></td><td></td><td>.000</td></tr>
 <tr><td>CFI</td><td>0.79</td><td></td><td></td><td></td></tr>
 <tr><td>TLI</td><td>0.73</td><td></td><td></td><td></td></tr>
 <tr><td>RMSEA</td><td>0.06</td><td></td><td></td><td></td></tr>

diff --git a/output/tables/sem_model_10-18.html b/output/tables/sem_model_10-18.html
@@ -16,14 +16,14 @@
 <tr><td>Concern</td><td>-0.24</td><td>0.08</td><td>-2.85</td><td>.004</td></tr>
 <tr><td>Q4.CBO</td><td>-0.88</td><td>0.32</td><td>-2.75</td><td>.006</td></tr>
 <tr><td>Q4.NGO</td><td>-0.45</td><td>0.12</td><td>-3.58</td><td>.000</td></tr>
-<tr><td>Q4.Fed</td><td>-0.08</td><td>0.19</td><td>-0.42</td><td>.674</td></tr>
+<tr><td>Q4.Fed</td><td>-0.08</td><td>0.19</td><td>-0.42</td><td>.675</td></tr>
 <tr><td>Q4.State</td><td>-0.21</td><td>0.14</td><td>-1.49</td><td>.137</td></tr>
 <tr><td>Q4.RegGov</td><td>0.08</td><td>0.21</td><td>0.38</td><td>.704</td></tr>
-<tr><td>Q4.EnviroSD</td><td>0.20</td><td>0.30</td><td>0.66</td><td>.506</td></tr>
-<tr><td>Q4.WaterSD</td><td>0.01</td><td>0.26</td><td>0.05</td><td>.960</td></tr>
-<tr><td>Q4.Ed</td><td>-0.20</td><td>0.12</td><td>-1.63</td><td>.104</td></tr>
-<tr><td>Q4.Multijuris</td><td>0.59</td><td>0.93</td><td>0.63</td><td>.526</td></tr>
-<tr><td>Q4.Multistake</td><td>-0.09</td><td>0.39</td><td>-0.23</td><td>.821</td></tr>
+<tr><td>Q4.EnviroSD</td><td>0.20</td><td>0.30</td><td>0.67</td><td>.506</td></tr>
+<tr><td>Q4.WaterSD</td><td>0.01</td><td>0.26</td><td>0.05</td><td>.961</td></tr>
+<tr><td>Q4.Ed</td><td>-0.20</td><td>0.13</td><td>-1.62</td><td>.104</td></tr>
+<tr><td>Q4.Multijuris</td><td>0.59</td><td>0.93</td><td>0.63</td><td>.527</td></tr>
+<tr><td>Q4.Multistake</td><td>-0.09</td><td>0.39</td><td>-0.23</td><td>.822</td></tr>
 <tr><td>Q4.Political</td><td>-0.48</td><td>0.93</td><td>-0.52</td><td>.605</td></tr>
 <tr><td>Q4.Trade</td><td>-0.05</td><td>0.18</td><td>-0.26</td><td>.793</td></tr>
 <tr><td>Q4.Enviro</td><td>-0.11</td><td>0.17</td><td>-0.64</td><td>.522</td></tr>
@@ -34,17 +34,17 @@
 <tr><td>Q4.CBO</td><td>-0.06</td><td>0.24</td><td>-0.25</td><td>.799</td></tr>
 <tr><td>Q4.NGO</td><td>-0.28</td><td>0.09</td><td>-3.02</td><td>.003</td></tr>
 <tr><td>Q4.Fed</td><td>-0.56</td><td>0.14</td><td>-3.95</td><td>.000</td></tr>
-<tr><td>Q4.State</td><td>0.05</td><td>0.11</td><td>0.48</td><td>.628</td></tr>
-<tr><td>Q4.RegGov</td><td>0.10</td><td>0.15</td><td>0.66</td><td>.509</td></tr>
+<tr><td>Q4.State</td><td>0.05</td><td>0.11</td><td>0.48</td><td>.629</td></tr>
+<tr><td>Q4.RegGov</td><td>0.10</td><td>0.15</td><td>0.66</td><td>.510</td></tr>
 <tr><td>Q4.EnviroSD</td><td>-0.55</td><td>0.23</td><td>-2.42</td><td>.016</td></tr>
 <tr><td>Q4.WaterSD</td><td>-0.20</td><td>0.19</td><td>-1.01</td><td>.313</td></tr>
 <tr><td>Q4.Ed</td><td>-0.08</td><td>0.09</td><td>-0.88</td><td>.380</td></tr>
 <tr><td>Q4.Multijuris</td><td>0.04</td><td>0.69</td><td>0.06</td><td>.952</td></tr>
 <tr><td>Q4.Multistake</td><td>-0.05</td><td>0.29</td><td>-0.16</td><td>.873</td></tr>
 <tr><td>Q4.Political</td><td>0.53</td><td>0.69</td><td>0.76</td><td>.448</td></tr>
-<tr><td>Q4.Trade</td><td>-0.07</td><td>0.14</td><td>-0.52</td><td>.601</td></tr>
+<tr><td>Q4.Trade</td><td>-0.07</td><td>0.14</td><td>-0.52</td><td>.600</td></tr>
 <tr><td>Q4.Enviro</td><td>-0.17</td><td>0.13</td><td>-1.34</td><td>.180</td></tr>
-<tr><td>OtherActorType</td><td>-0.03</td><td>0.08</td><td>-0.42</td><td>.674</td></tr>
+<tr><td>OtherActorType</td><td>-0.03</td><td>0.08</td><td>-0.42</td><td>.673</td></tr>
 <tr><td></td><td colspan = '4'; align = 'center'><span style="text-decoration: underline;">Residual Variances</span></td></tr>
 <tr><td>Q32.InfoTypes</td><td>6.65</td><td>0.38</td><td>17.58</td><td>.000</td></tr>
 <tr><td>Q1.Focus</td><td>1.45</td><td>0.08</td><td>17.04</td><td>.000</td></tr>
@@ -71,7 +71,7 @@
 <tr><td>Q4.Enviro</td><td>0.05<sup>+</sup></td><td></td><td></td><td></td></tr>
 <tr><td>OtherActorType</td><td>0.17<sup>+</sup></td><td></td><td></td><td></td></tr>
 <tr><td></td><td colspan = '4'; align = 'center'><span style="text-decoration: underline;">Residual Covariances</span></td></tr>
-<tr><td>F1 w/F2</td><td>-0.12</td><td>0.02</td><td>-4.64</td><td>.000</td></tr>
+<tr><td>F1 w/F2</td><td>-0.12</td><td>0.02</td><td>-4.65</td><td>.000</td></tr>
 <tr><td>Q4.CBO w/Q4.NGO</td><td>-0.00<sup>+</sup></td><td></td><td></td><td></td></tr>
 <tr><td>Q4.CBO w/Q4.Fed</td><td>-0.00<sup>+</sup></td><td></td><td></td><td></td></tr>
 <tr><td>Q4.CBO w/Q4.State</td><td>-0.00<sup>+</sup></td><td></td><td></td><td></td></tr>

diff --git a/output/tables/sem_model_V3_10-7.html b/output/tables/sem_model_V3_10-7.html
@@ -15,10 +15,10 @@
 <tr><td>govagency</td><td>-0.16</td><td>0.12</td><td>-1.37</td><td>.170</td></tr>
 <tr><td>othergroup</td><td>-0.13</td><td>0.09</td><td>-1.44</td><td>.150</td></tr>
  <tr><td colspan = '1'; align = 'left'><span style="text-decoration: underline;">F2</span></td></tr>
-<tr><td>Engagement</td><td>-0.07</td><td>0.02</td><td>-3.20</td><td>.001</td></tr>
+<tr><td>Engagement</td><td>-0.07</td><td>0.02</td><td>-3.19</td><td>.001</td></tr>
 <tr><td>noprofit</td><td>-0.21</td><td>0.08</td><td>-2.61</td><td>.009</td></tr>
-<tr><td>govagency</td><td>-0.05</td><td>0.09</td><td>-0.64</td><td>.524</td></tr>
-<tr><td>othergroup</td><td>-0.01</td><td>0.07</td><td>-0.09</td><td>.932</td></tr>
+<tr><td>govagency</td><td>-0.05</td><td>0.09</td><td>-0.64</td><td>.523</td></tr>
+<tr><td>othergroup</td><td>-0.01</td><td>0.07</td><td>-0.09</td><td>.931</td></tr>
 <tr><td></td><td colspan = '4'; align = 'center'><span style="text-decoration: underline;">Residual Variances</span></td></tr>
 <tr><td>Q32.InfoTypes</td><td>7.06</td><td>0.39</td><td>17.90</td><td>.000</td></tr>
 <tr><td>Q1.Focus</td><td>1.56</td><td>0.09</td><td>17.50</td><td>.000</td></tr>
@@ -33,7 +33,7 @@
 <tr><td>govagency</td><td>0.14<sup>+</sup></td><td></td><td></td><td></td></tr>
 <tr><td>othergroup</td><td>0.24<sup>+</sup></td><td></td><td></td><td></td></tr>
 <tr><td></td><td colspan = '4'; align = 'center'><span style="text-decoration: underline;">Residual Covariances</span></td></tr>
-<tr><td>F1 w/F2</td><td>-0.11</td><td>0.03</td><td>-4.24</td><td>.000</td></tr>
+<tr><td>F1 w/F2</td><td>-0.11</td><td>0.03</td><td>-4.25</td><td>.000</td></tr>
 <tr><td>noprofit w/govagency</td><td>-0.03<sup>+</sup></td><td></td><td></td><td></td></tr>
 <tr><td>noprofit w/othergroup</td><td>-0.08<sup>+</sup></td><td></td><td></td><td></td></tr>
 <tr><td>govagency w/othergroup</td><td>-0.07<sup>+</sup></td><td></td><td></td><td></td></tr>

diff --git a/output/tables/table_SURresults.html b/output/tables/table_SURresults.html
@@ -73,11 +73,11 @@
 </tr>
 <tr>
 <td style="padding-left: 5px;padding-right: 5px;">f1reg: Q4_RegGov</td>
-<td style="padding-left: 5px;padding-right: 5px;">0.17</td>
+<td style="padding-left: 5px;padding-right: 5px;">0.25</td>
 </tr>
 <tr>
 <td style="padding-left: 5px;padding-right: 5px;">&nbsp;</td>
-<td style="padding-left: 5px;padding-right: 5px;">(0.20)</td>
+<td style="padding-left: 5px;padding-right: 5px;">(0.22)</td>
 </tr>
 <tr>
 <td style="padding-left: 5px;padding-right: 5px;">f1reg: Q4_LocalGov</td>
@@ -153,11 +153,11 @@
 </tr>
 <tr>
 <td style="padding-left: 5px;padding-right: 5px;">f2reg: Q4_RegGov</td>
-<td style="padding-left: 5px;padding-right: 5px;">0.16</td>
+<td style="padding-left: 5px;padding-right: 5px;">0.22</td>
 </tr>
 <tr>
 <td style="padding-left: 5px;padding-right: 5px;">&nbsp;</td>
-<td style="padding-left: 5px;padding-right: 5px;">(0.15)</td>
+<td style="padding-left: 5px;padding-right: 5px;">(0.16)</td>
 </tr>
 <tr>
 <td style="padding-left: 5px;padding-right: 5px;">f2reg: Q4_LocalGov</td>
